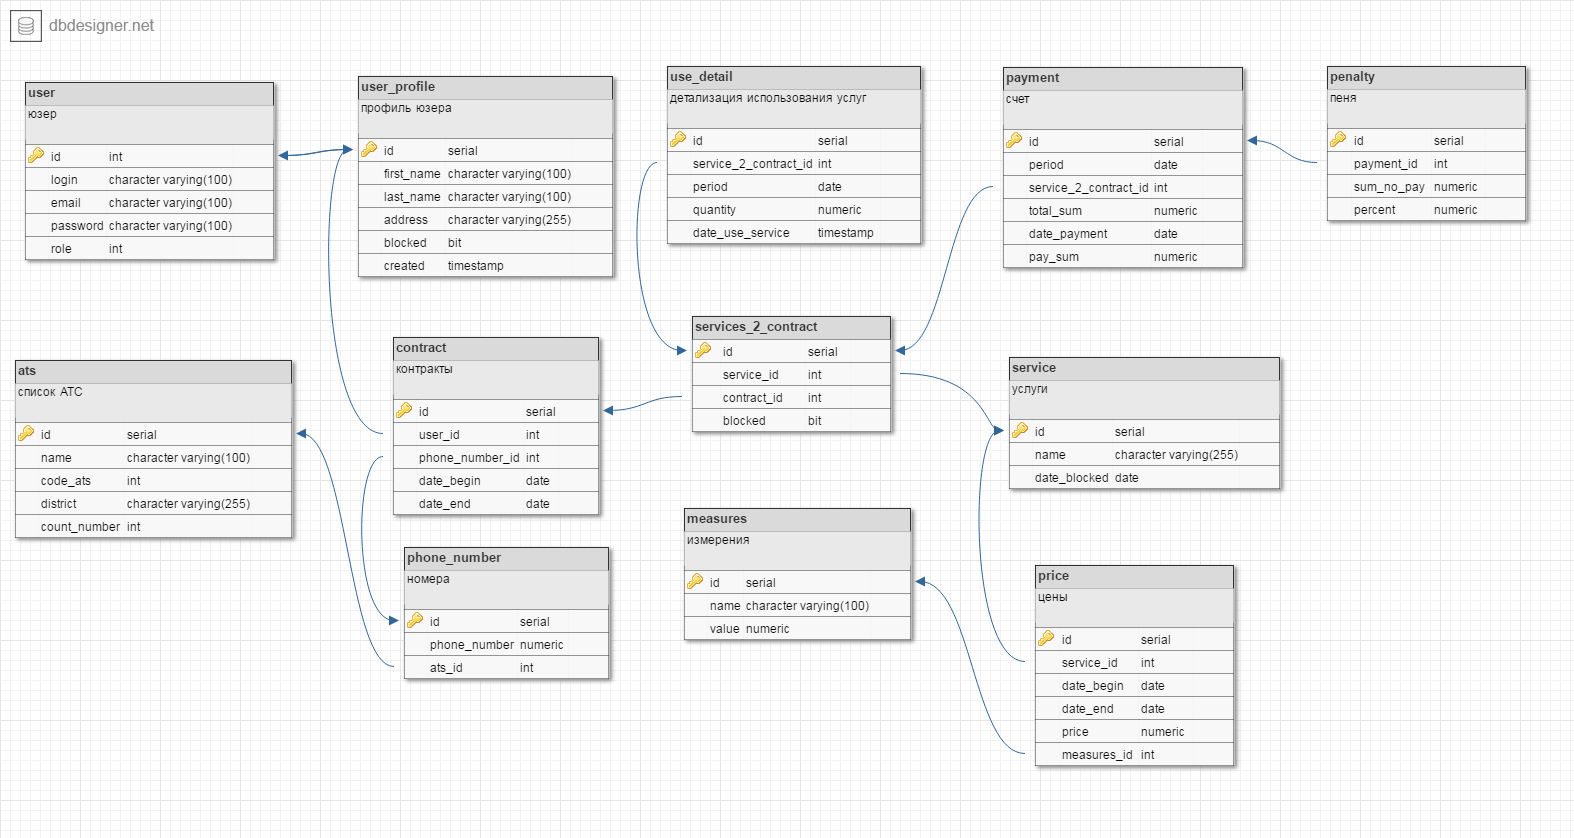
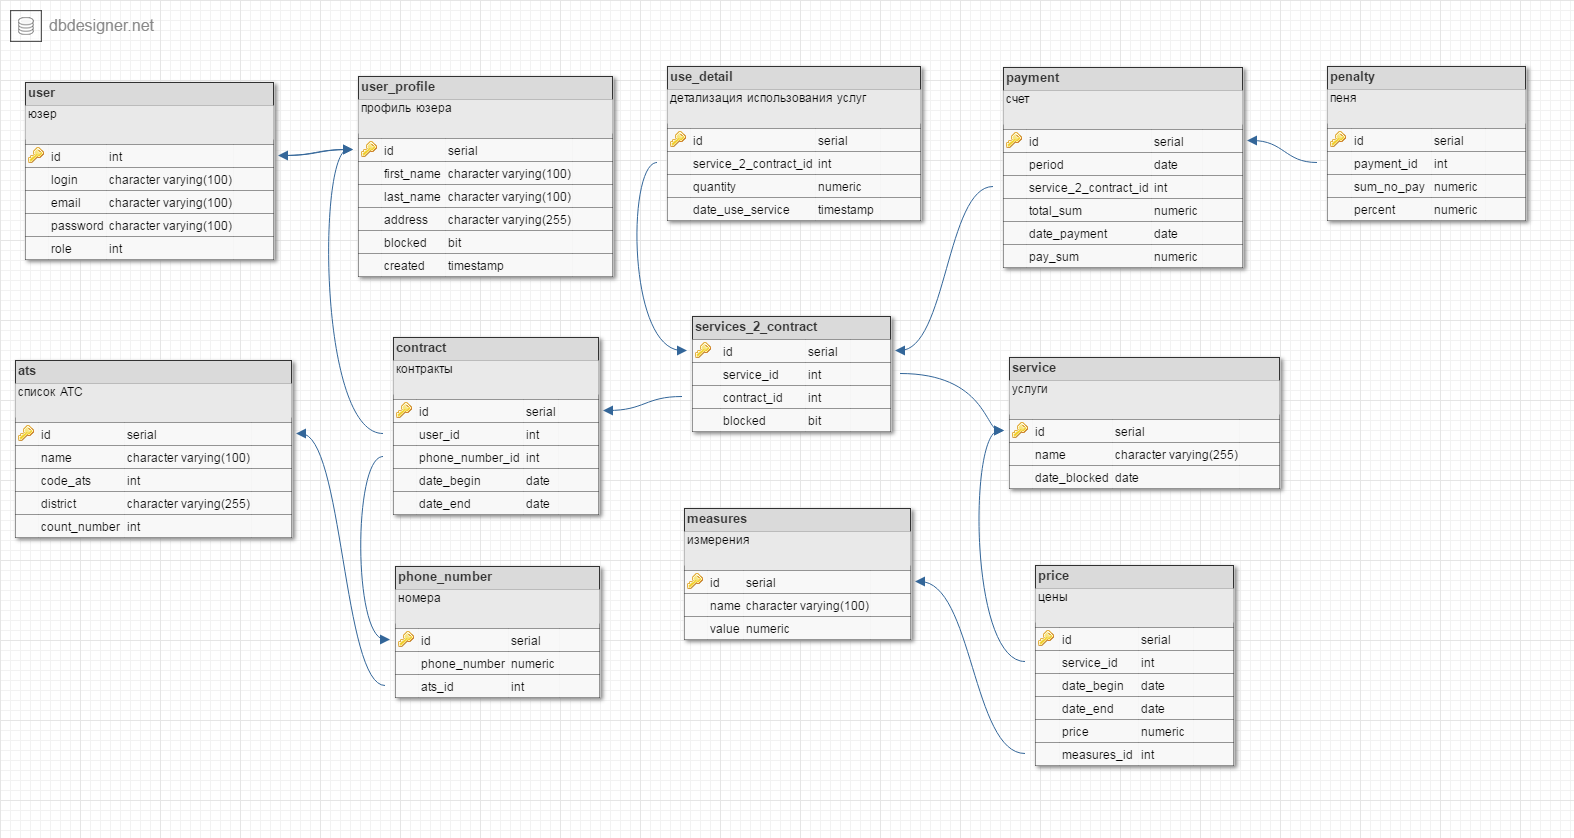
no message

Changed region(s): [[0.2179, 0.6516, 0.4047, 0.8377], [0.4358, 0.2172, 0.5915, 0.3103]]

diff --git a/datamodel/src/main/java/by/mk/training/phonestation/datamodel/UseDetail.java b/datamodel/src/main/java/by/mk/training/phonestation/datamodel/UseDetail.java
@@ -6,7 +6,6 @@ import java.util.Date;
 public class UseDetail extends AbstractModel {
 
 	private Double quantity;
-	private Date period;
 	private Date dateUseService;
 	private ServiceContract serviceContract;
 
@@ -16,14 +15,6 @@ public class UseDetail extends AbstractModel {
 
 	public void setQuantity(Double quantity) {
 		this.quantity = quantity;
-	}
-
-	public Date getPeriod() {
-		return period;
-	}
-
-	public void setPeriod(Date period) {
-		this.period = period;
 	}
 
 	public Date getDateUseService() {
